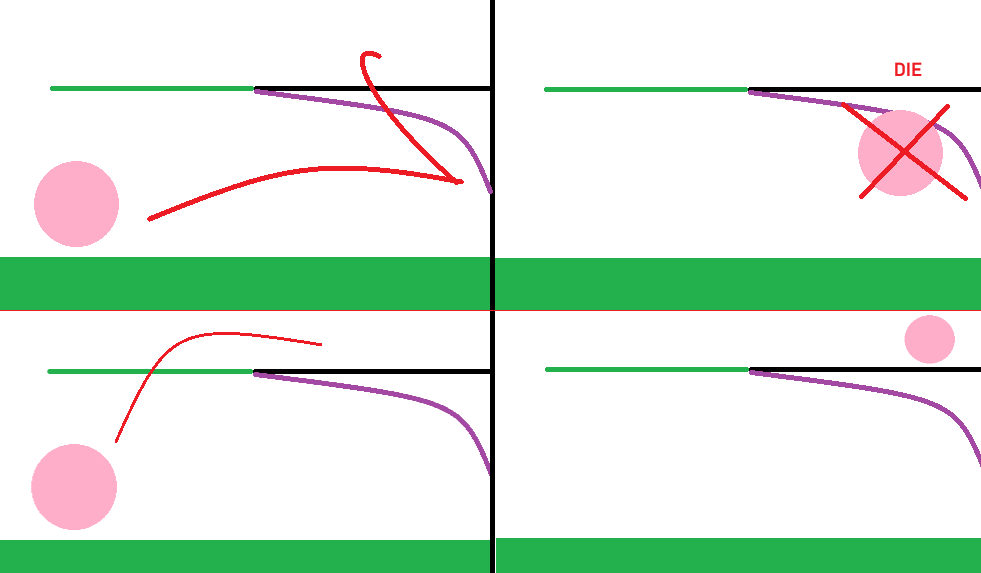
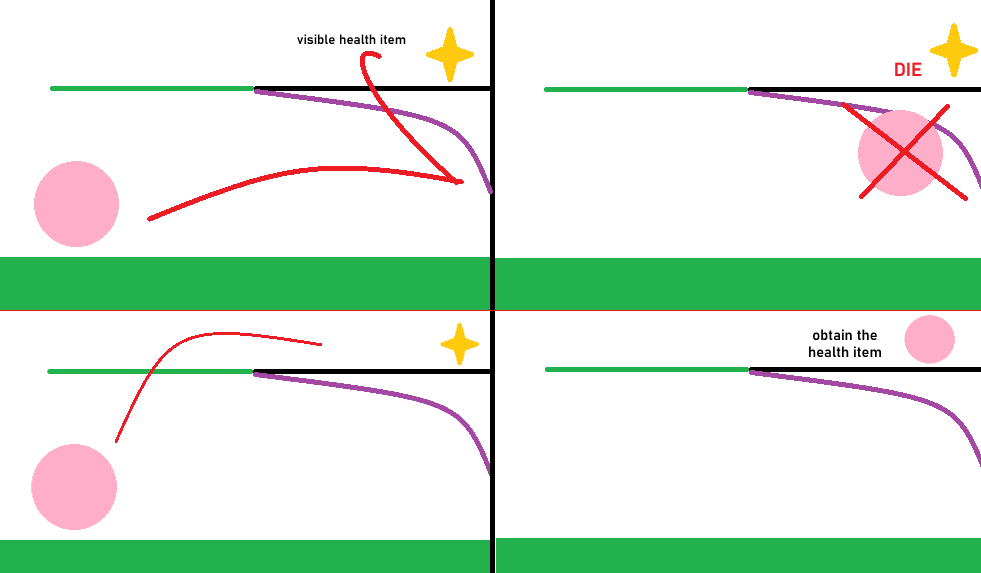
update documentation + finish adding storyboards 2

diff --git a/README.md b/README.md
@@ -62,26 +62,25 @@ The acid is placed so that the player think twice and act more careful before th
 Moving platform are used to increase intensity from just normal platform created by tiles. Upon reaching this platform, the player have to consider when to jump on, how long should they wait, when to jump off,etc thus create intensity. 
 ### 2.4. Spitters
 The spitter urges the player to think and move faster so that they can avoid being hit by it. This enemy is used to create an early intensity and to introduce the player to the game's active enemies.
+### 2.5. Checkpoints
+The checkpoint is placed since this first encounter can be quite frustrating for many players, so the checkpoint make sure that they would not have to get through this tricky section again when they fell. 
 
 ### Encounter 2: 
 ![Encounter2](DocImages/storyboard3.png)
-### 2.5. Weapon Pickup (Staff)
+### 2.6. Weapon Pickup (Staff)
 The staff can be used for close-range attack, and unlike the gun, it doesn't have any limit on how many time the player can use it. 
-### 2.6. Chompers
+### 2.7. Chompers
 The chomper is placed so that the player can immediately see the use of the staff since if they don't defeat the chomper, they will have trouble obtaining the key.
-### 2.7. Keys
-Key is placed after the player has finished a handful of challenges in this section. To get to the key, they must defeat or get around the chomper, this is to make the player feel more statisfied and encouraged as their hard earn work is greatly reward. 
-
+### 2.8. Keys
+Key is placed after the player has finished a handful of challenges in this section. To get to the key, they must defeat or get around the chomper for additional challenge to increase the drama and keep the flow going. 
 ### Encounter 3:
 ![Encounter3](DocImages/storyboard4.png)
-### 2.8. Spikes
+### 2.9. Spikes
 The spikes are used to create visible risks for the player, it make them rethink their route and indirectly hint which way to jump and which direction to move towards. In this case, it help showing the player where the passthrough platform is. 
-### 2.7. Passthrough Platforms
+### 2.10. Passthrough Platforms
 Passthrough platform is used to make the game become more interesting, as the level now have an interactive platform that they can used in multiple way. To advance in sections with passthrough platform, the player must think out of the box. 
-
-### 2.2. Checkpoints
-
-### 2.4. Health Pickups
+### 2.11. Health Pickups
+This is the final reward after the scene to make the player feel more statisfied and encouraged as their hard earn work is greatly reward and also motivated them to move to harder challenges as they just been a given another health. 
 
 
 ## 3. Spatiotemporal Design
